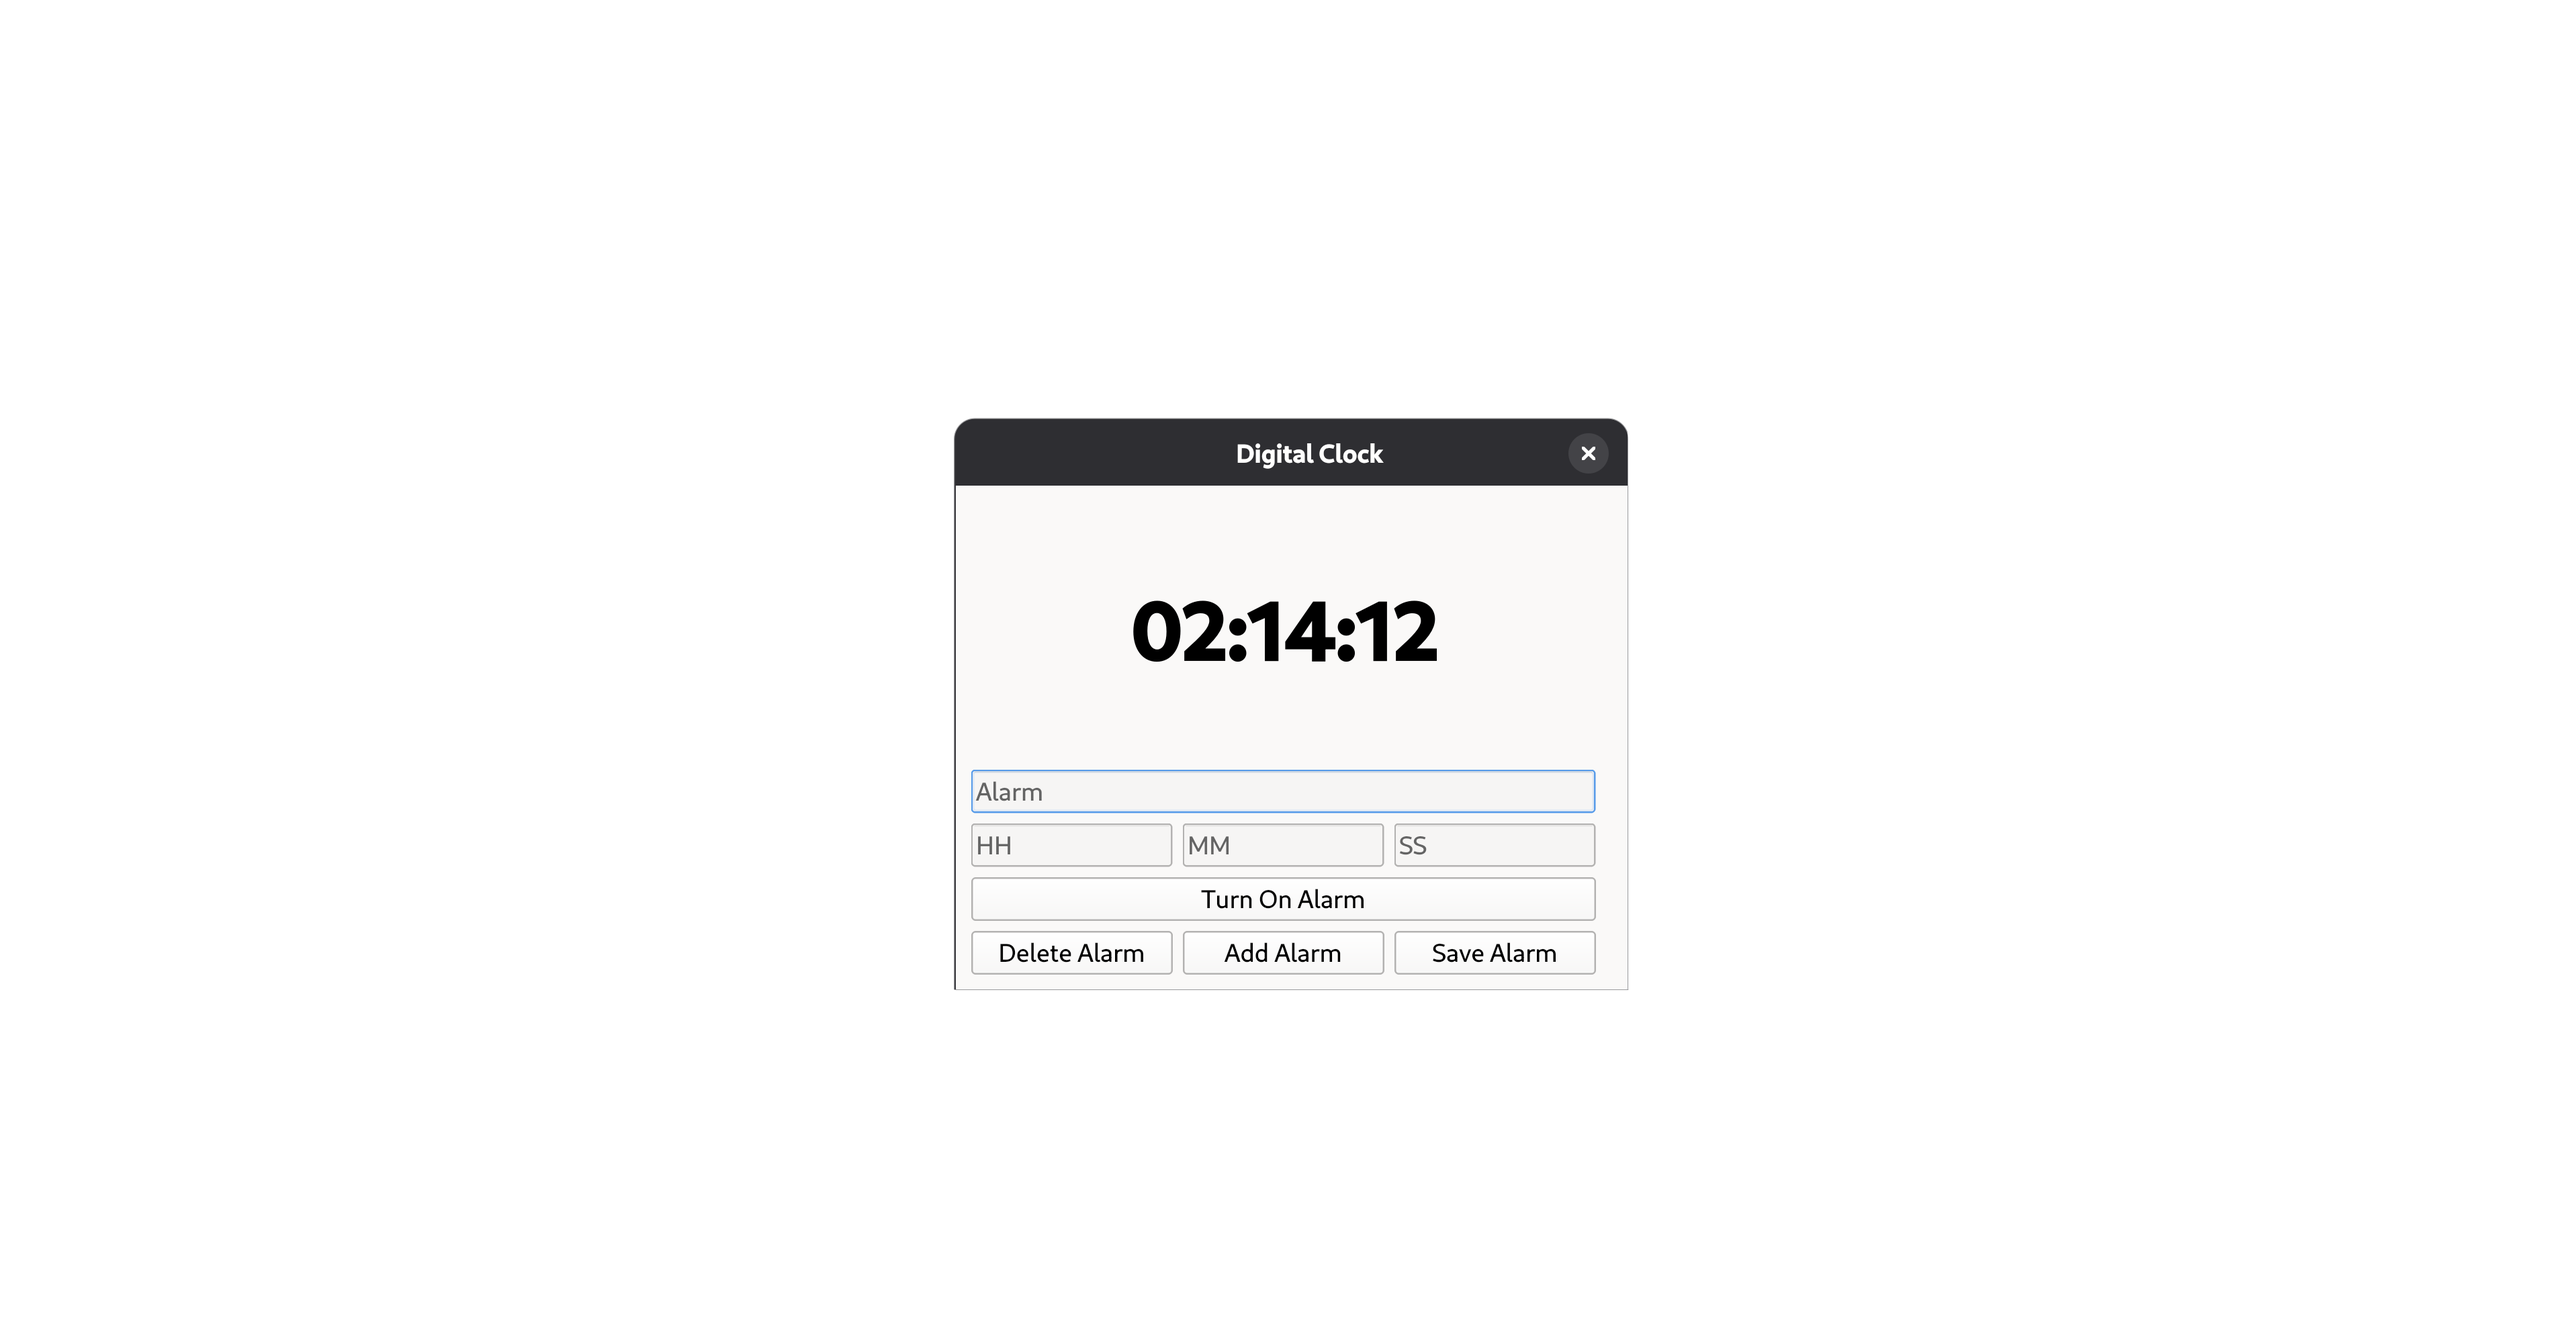
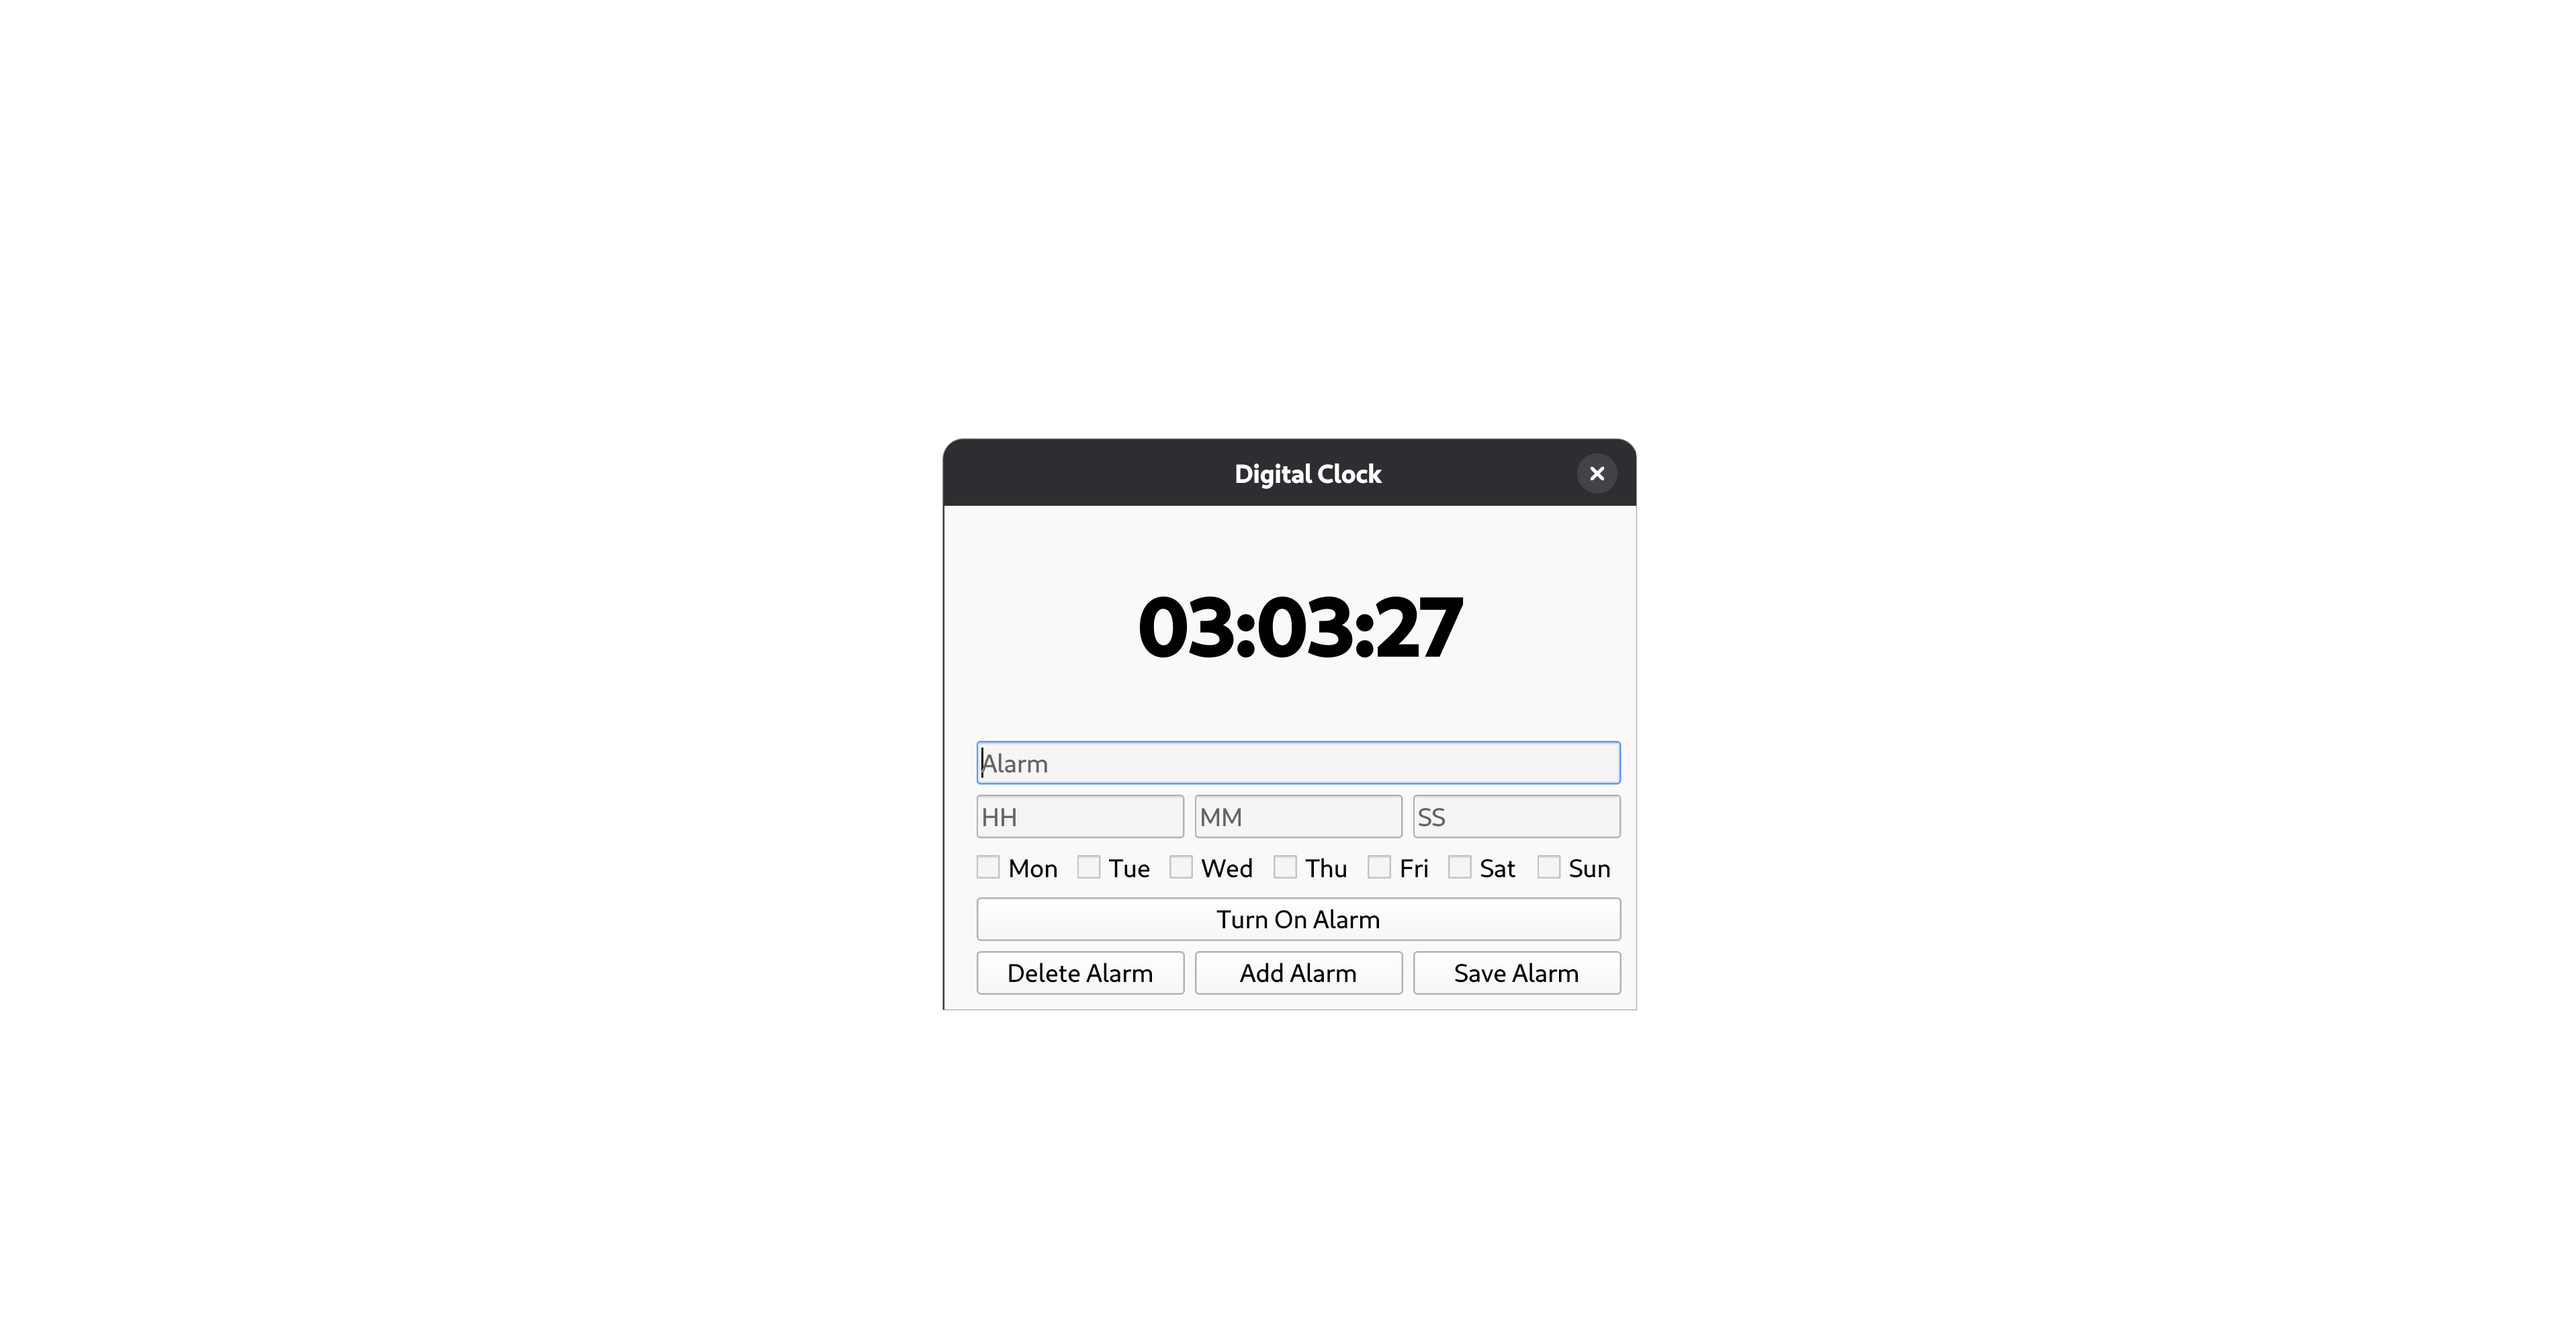
added better ui and day checkboxes

Changed region(s): [[0.3724, 0.5594, 0.6206, 0.7459], [0.3413, 0.3108, 0.6516, 0.404], [0.4344, 0.4351, 0.5896, 0.4972]]

diff --git a/ui.py b/ui.py
@@ -1,10 +1,11 @@
 from PyQt6.QtWidgets import (
     QLabel, QMainWindow, QPushButton,
-    QWidget, QVBoxLayout, QHBoxLayout, QLineEdit,
-    QSystemTrayIcon, QStyle
+    QWidget, QVBoxLayout, QHBoxLayout, 
+    QLineEdit,QSystemTrayIcon, QStyle, 
+    QCheckBox
 )
-from PyQt6.QtCore import QTimer, QUrl, Qt
-from PyQt6.QtGui import QIntValidator
+from PyQt6.QtCore import QTimer, QUrl, Qt, QRegularExpression
+from PyQt6.QtGui import QRegularExpressionValidator
 from PyQt6.QtMultimedia import QSoundEffect
 from datetime import datetime
 
@@ -40,14 +41,20 @@ class MainWindow(QMainWindow):
         central_widget = QWidget()
         self.setCentralWidget(central_widget)
         main_layout = QHBoxLayout(central_widget)
-        left_column = QVBoxLayout()
-        main_layout.addLayout(left_column)
         
-        self.right_column = QVBoxLayout()
-        main_layout.addLayout(self.right_column)
-        self.right_column.setSpacing(8)
-        self.right_column.setContentsMargins(5, 5, 5, 5)
-        self.right_column.setAlignment(Qt.AlignmentFlag.AlignTop)
+        self.left_column = QVBoxLayout()
+        main_layout.addLayout(self.left_column)
+        self.left_column.setSpacing(8)
+        self.left_column.setContentsMargins(5, 5, 5, 5)
+        self.left_column.setAlignment(Qt.AlignmentFlag.AlignTop)
+        
+        self.separator = QWidget()
+        self.separator.setFixedWidth(2)
+        self.separator.setStyleSheet("background-color: gray;")
+        main_layout.addWidget(self.separator)
+        
+        right_column = QVBoxLayout()
+        main_layout.addLayout(right_column)
         
         # Create label with styling
         self.time_display_label = QLabel()
@@ -59,20 +66,25 @@ class MainWindow(QMainWindow):
                                      qproperty-alignment: AlignCenter;
                                  }
                                  """)
-        left_column.addWidget(self.time_display_label)
+        right_column.addWidget(self.time_display_label)
 
         # Alarm name
         self.alarm_name = QLineEdit()
         self.alarm_name.setPlaceholderText("Alarm")
-        left_column.addWidget(self.alarm_name)
+        right_column.addWidget(self.alarm_name)
 
         ## Layout and Validation for inputs
         input_layout = QHBoxLayout()
-        left_column.addLayout(input_layout)
+        right_column.addLayout(input_layout)
 
-        validator_H = QIntValidator(0, 23)
-        validator_MS = QIntValidator(0, 59)
+        validator_H = QRegularExpressionValidator(
+            QRegularExpression(r"^([01]?\d|2[0-3])$")
+        )
 
+        validator_MS = QRegularExpressionValidator(
+            QRegularExpression(r"^([0-5]?\d)$")
+        )
+        
         # Alarm inputs
         self.alarm_input_hour = QLineEdit()
         self.alarm_input_hour.setValidator(validator_H)
@@ -92,13 +104,24 @@ class MainWindow(QMainWindow):
         self.alarm_input_second.setPlaceholderText("SS")
         input_layout.addWidget(self.alarm_input_second)
 
+        days_layout = QHBoxLayout()
+        right_column.addLayout(days_layout)
+
+        self.day_checkboxes = {}
+        days = ["Mon", "Tue", "Wed", "Thu", "Fri", "Sat", "Sun"]      
+        
+        for day in days:
+            checkbox = QCheckBox(day)
+            self.day_checkboxes[day] = checkbox
+            days_layout.addWidget(checkbox)  
+
         # Add a start/stop button 
         self.alarm_button = QPushButton("Turn On Alarm")
-        left_column.addWidget(self.alarm_button)
+        right_column.addWidget(self.alarm_button)
         
         # Add an add/save/delete button
         action_layout = QHBoxLayout()
-        left_column.addLayout(action_layout)
+        right_column.addLayout(action_layout)
 
         self.del_button = QPushButton("Delete Alarm")
         action_layout.addWidget(self.del_button)
@@ -110,9 +133,11 @@ class MainWindow(QMainWindow):
         action_layout.addWidget(self.save_button)
 
     def render_alarm_list(self):
+        self.separator.setVisible(len(self.alarms) > 0)
+        
         # clear layout
-        for i in reversed(range(self.right_column.count())):
-            widget = self.right_column.itemAt(i).widget()
+        for i in reversed(range(self.left_column.count())):
+            widget = self.left_column.itemAt(i).widget()
             if widget:
                 widget.setParent(None)
 
@@ -124,7 +149,7 @@ class MainWindow(QMainWindow):
                 lambda _, idx=i: self.select_alarm(idx)
             )
 
-            self.right_column.addWidget(btn)
+            self.left_column.addWidget(btn)
                     
     def show_notifications(self, title, message):
         self.tray.showMessage(
@@ -150,8 +175,9 @@ class MainWindow(QMainWindow):
         # Sound Effects
         self.sound = QSoundEffect()
         self.sound.setSource(QUrl.fromLocalFile("alarm.wav"))
+        self.sound.setLoopCount(1000)
 
-    def load_alarm(self):
+    def load_alarm(self):        
         data = self.storage.load()
         if not data:
             return
@@ -177,12 +203,16 @@ class MainWindow(QMainWindow):
     # Alarm logic
     def update_time(self):
         current_time = datetime.now().strftime('%H:%M:%S')
+        today = datetime.now().strftime("%a")
         self.time_display_label.setText(current_time)
 
         for alarm in self.alarms:
             if not alarm.get("enabled"):
                 continue
-
+            
+            if alarm.get("days") and today not in alarm["days"]:
+                continue
+            
             alarm_time = f"{alarm['hour']}:{alarm['minute']}:{alarm['second']}"
 
             if current_time == alarm_time:
@@ -220,6 +250,8 @@ class MainWindow(QMainWindow):
             self.alarm_button.setText("Turn On Alarm")
             self.unlock_inputs()
         else:
+            self.sound.stop()
+            self.save_alarm()
             self.set_alarm()
             self.alarm_button.setText("Turn Off Alarm")
             self.lock_inputs()
@@ -232,6 +264,9 @@ class MainWindow(QMainWindow):
     def select_alarm(self, idx):
         self.selected_idx = idx
         alarm = self.alarms[idx]
+        
+        for d, cb in self.day_checkboxes.items():
+            cb.setChecked(d in alarm.get("days", []))
         
         self.alarm_name.setText(alarm["name"])
         self.alarm_input_hour.setText(alarm["hour"])
@@ -246,6 +281,9 @@ class MainWindow(QMainWindow):
             self.alarm_button.setText("Turn On Alarm")
 
     def new_alarm(self):
+        for cb in self.day_checkboxes.values():
+            cb.setChecked(False)
+            
         self.selected_idx = None
         
         self.alarm.disable()
@@ -280,14 +318,15 @@ class MainWindow(QMainWindow):
         s = self.alarm_input_second.text().strip()
         if not h or not m or not s:
             return
-        
+                
         # Save alarm time into JSON
         data = {
             "name": self.alarm_name.text(),
             "hour": self.alarm_input_hour.text(),
             "minute": self.alarm_input_minute.text(),
             "second": self.alarm_input_second.text(),
-            "enabled": self.alarm.enabled
+            "enabled": self.alarm.enabled,
+            "days": [d for d, cb in self.day_checkboxes.items() if cb.isChecked()]
         }
         
         if self.selected_idx is None:
